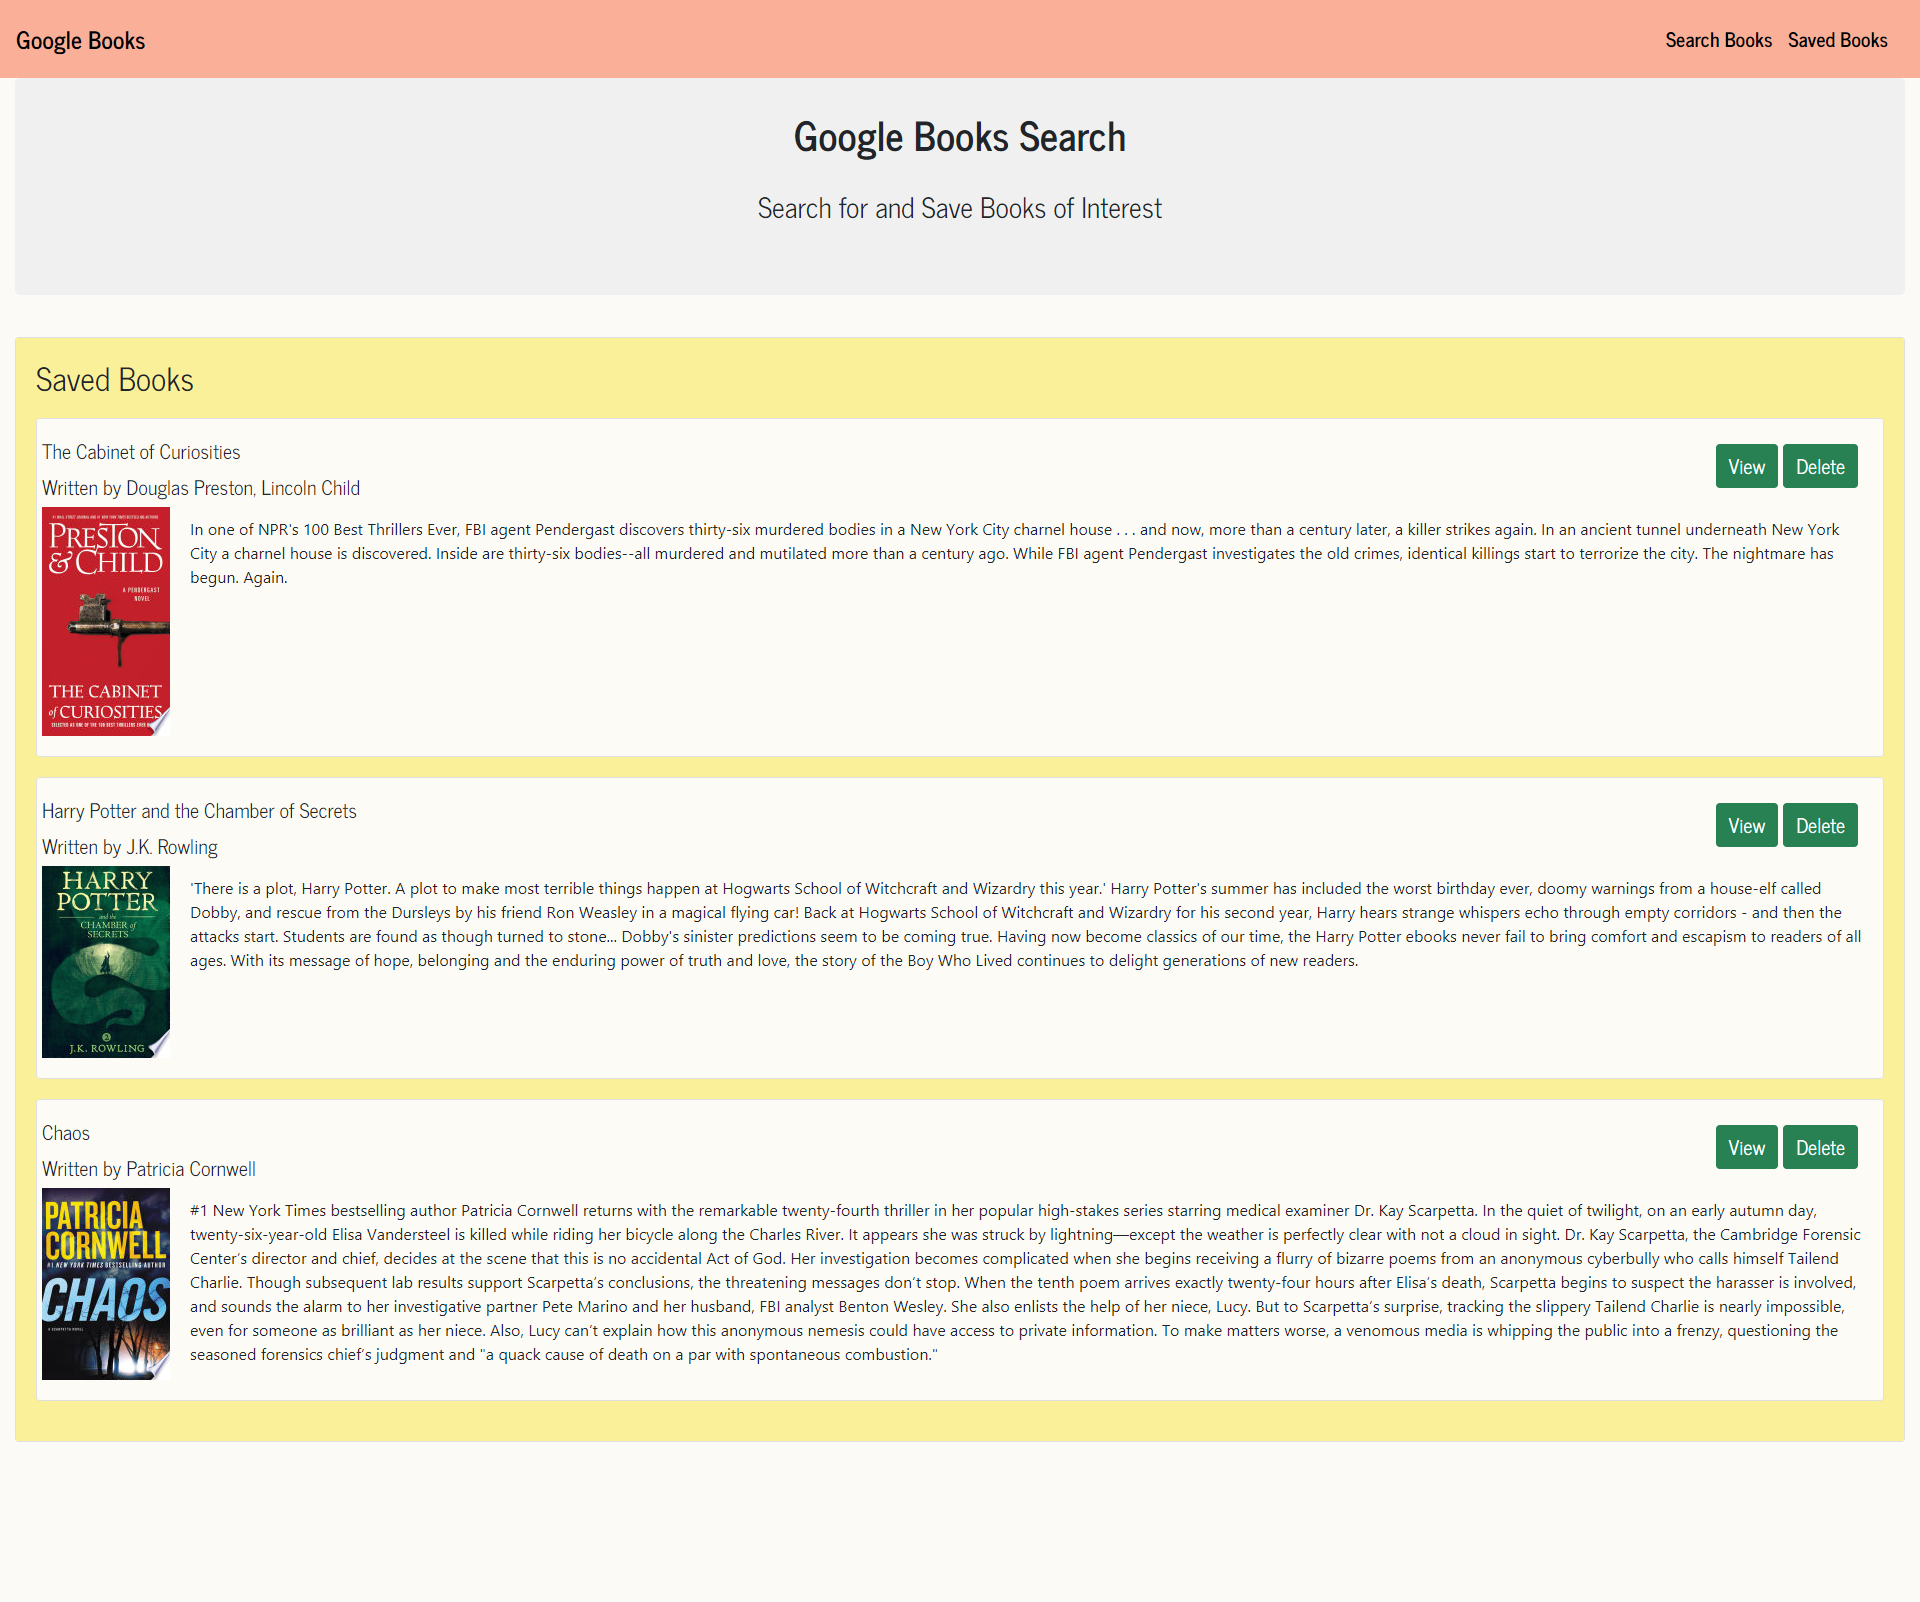
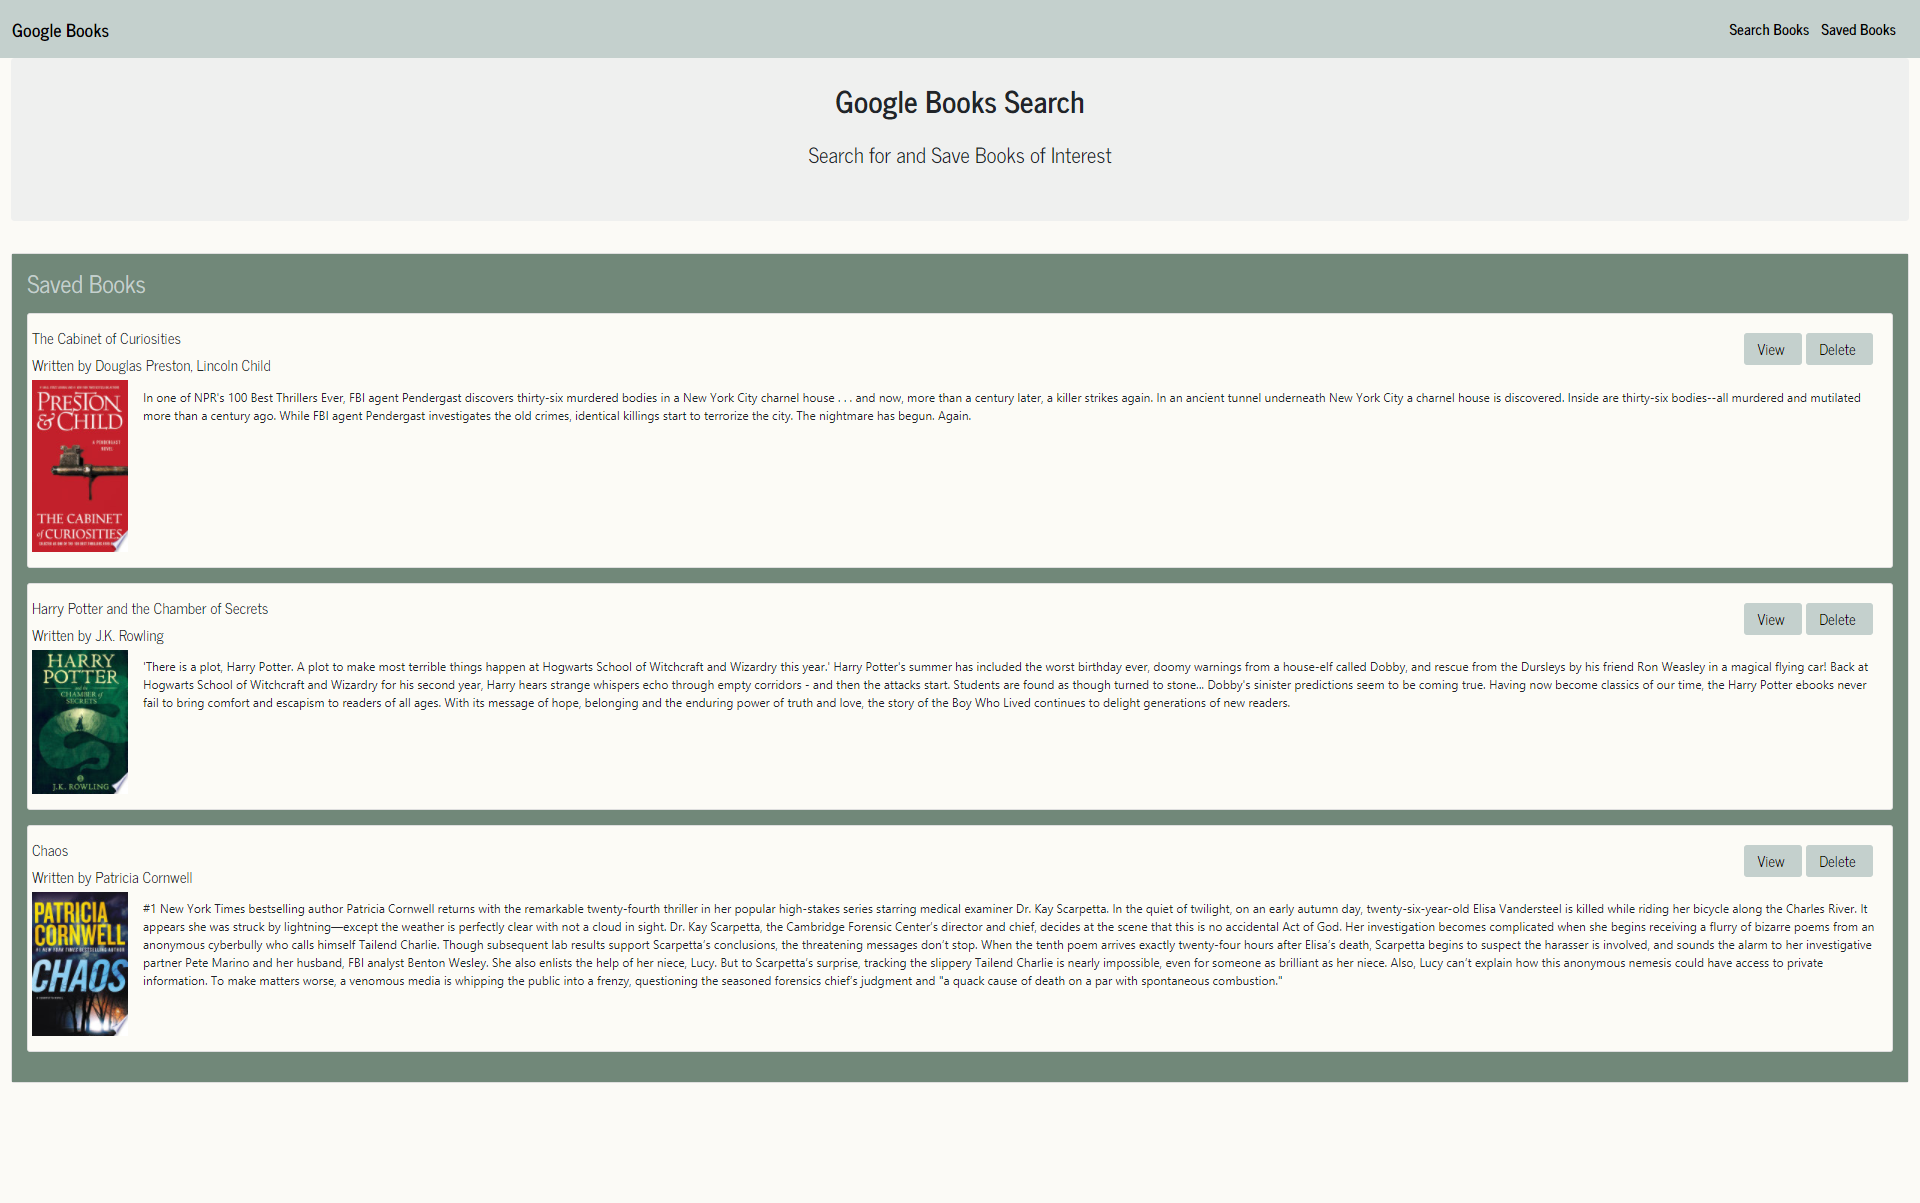
changed color palette, updated readem screenshots

Changed region(s): [[0.0, 0.1845, 1.0, 0.9227], [0.0, 0.0, 1.0, 0.1538]]

diff --git a/client/src/components/SaveResults/SaveResults.js b/client/src/components/SaveResults/SaveResults.js
@@ -48,10 +48,10 @@ function SaveResults (props) {
                             <h5>Written by {props.author}</h5>
                         </div>
                         <div style={{ float: 'right'}}>
-                            <a  href={props.link} target="_blank" rel="noreferrer noopener"
-                                ><button target={props.link} rel="noreferrer noopener" className="btn myButton buttonMargin">View</button></a>
-                            <button id={props.id} target="_blank" rel="noreferrer noopener"
-                                className="btn myButton buttonMargin" onClick={deleteBook}>Delete</button>
+                            <a  className="btn myButton buttonMargin" href={props.link} target="_blank" rel="noreferrer noopener"
+                                ><button className="myButton" target={props.link} rel="noreferrer noopener" >View</button></a>
+                            <a className="btn myButton buttonMargin"><button id={props.id} target="_blank" rel="noreferrer noopener"
+                                className="myButton" onClick={deleteBook}>Delete</button></a>
                         </div>
                         <br />
                         <div className="row" style={{display: 'inline-block'}}>

diff --git a/client/src/components/DisplayBooks/DisplayBooks.js b/client/src/components/DisplayBooks/DisplayBooks.js
@@ -70,10 +70,10 @@ function Project (props) {
                             <h5>Written by {props.author}</h5>
                         </div>
                         <div style={{ float: 'right'}}>
-                            <a  href={props.link} target="_blank" rel="noreferrer noopener"
-                                ><button className="btn myButton buttonMargin" target={props.link} rel="noreferrer noopener" >View</button></a>
-                            <button id={props.id} target="_blank" rel="noreferrer noopener"
-                                className="btn myButton buttonMargin" onClick={saveBook}>Save</button>
+                            <a  href={props.link} target="_blank" className="btn myButton buttonMargin" rel="noreferrer noopener"
+                                ><button className="myButton" target={props.link} rel="noreferrer noopener" >View</button></a>
+                            <a className="btn myButton buttonMargin"><button id={props.id} className=" myButton" target="_blank" rel="noreferrer noopener"
+                                 onClick={saveBook}>Save</button></a>
                         </div>
                         <br />
                         <div className="row" style={{display: 'inline-block'}}>

diff --git a/client/src/index.css b/client/src/index.css
@@ -40,8 +40,13 @@
   margin: 10px 0px;
 }
 
+.mytextColor {
+  color: #C4D0CD !important;
+}
+
 .bg-light {
-  background-color: #faaf99 !important;
+  /* background-color: #faaf99 !important; */
+  background-color: #C4D0CD  !important;
   color: #000;
    border: none;
 }
@@ -57,11 +62,17 @@
 
 /* styling for buttons */
 .myButton {
-  color: #fff;
-  background-color: rgb(39, 129, 83);
-  border-color: rgb(39, 129, 83);
+  color: black;
+  background-color: #C4D0CD ;
+  border: none;
+/*   background-color: rgb(39, 129, 83);
+  border-color: rgb(39, 129, 83); */
   margin-right: 5px !important;
   font-size: 20px;
+}
+
+.myButton :hover {
+  color: white !important;
 }
 
 /* styling to keep column items separated */
@@ -108,7 +119,8 @@ body {
   padding: 5px 20px;
 }
 .interiorCardColor {
-  background-color: rgb(250, 240, 153)
+  /* background-color: rgb(250, 240, 153) */
+  background-color: #718879;
 }
 
 input[type="text"] {
@@ -129,7 +141,7 @@ input[type=text]:focus {
 
 /* styling for the footer */
 .myFooter {
-      padding: 5px 0;
+      /* padding: 5px 0; */
       margin: 0;
 }
 

diff --git a/client/src/pages/SavedBooks.js b/client/src/pages/SavedBooks.js
@@ -42,7 +42,7 @@ function SavedBooks () {
                             <div className="container-fluid">
                                 <div className="card">
                                     <div className="card-body interiorCardColor">
-                                        <h2 className="card-title ">Saved Books</h2>
+                                        <h2 className="card-title mytextColor">Saved Books</h2>
                                         <div className="row row-cols-1">
                                             <div>
                                                 {savedbooks.map(result => (

diff --git a/client/src/components/SearchResults/SearchResults.js b/client/src/components/SearchResults/SearchResults.js
@@ -13,7 +13,7 @@ function SearchResults (props) {
                     <div className="container-fluid">
                         <div className="card ">
                             <div className="card-body interiorCardColor h-100">
-                                <h2 className="card-title "><strong>Search Results</strong></h2>
+                                <h2 className="card-title mytextColor"><strong>Search Results</strong></h2>
                                 <div className="row row-cols-1">
                                     <div>
                                         {books.map(result => (

diff --git a/client/src/pages/SearchBooks.js b/client/src/pages/SearchBooks.js
@@ -42,7 +42,7 @@ function Search() {
           <UserContext.Provider value={{books, searchTerm, handleBtnClick}}>
             <div className="container-fluid">
               <div className="card interiorCardColor">
-                <h4 className="formPadding"><strong>Book Search</strong></h4>
+                <h4 className="formPadding mytextColor"><strong>Book Search</strong></h4>
                 <form className="formPadding">
                   <input
                     value={searchTerm}

diff --git a/client/src/components/CardBtn/index.js b/client/src/components/CardBtn/index.js
@@ -1,6 +1,5 @@
 import React, { useContext } from "react";
 import UserContext from "../../utils/userContext";
-import "./style.css";
 
 function CardBtn(props) {
   console.log("card button");
